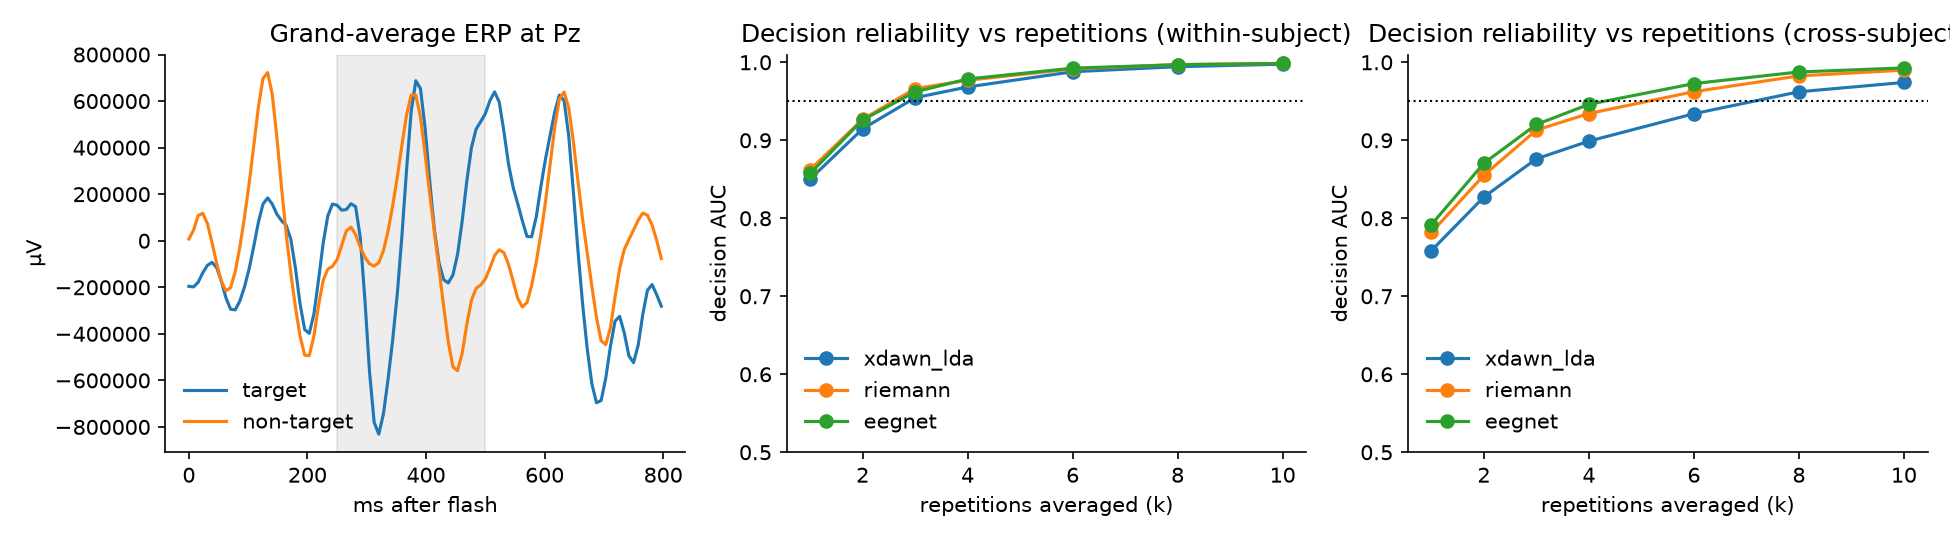
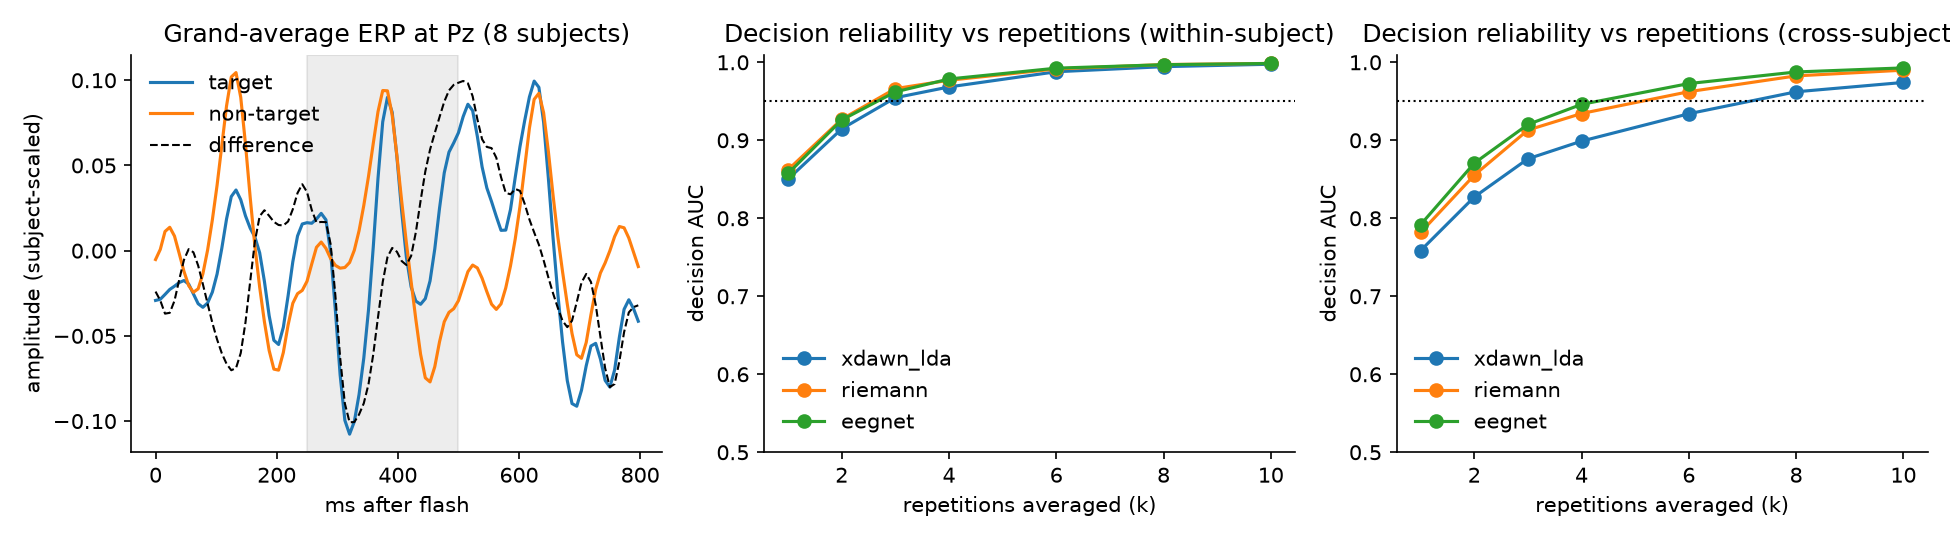
Overview figure: per-subject scaled ERP, difference wave; figure-only rebuild flag

diff --git a/src/p300erp/run.py b/src/p300erp/run.py
@@ -1,6 +1,6 @@
 """Run all detectors in both regimes and write reports/.
 
-    python -m p300erp.run [--prepare] [--skip-eegnet]
+    python -m p300erp.run [--prepare] [--skip-eegnet] [--figure-only]
 """
 from __future__ import annotations
 
@@ -10,15 +10,12 @@ import logging
 import time
 from pathlib import Path
 
-import matplotlib
-import numpy as np
 import pandas as pd
+from sklearn.metrics import roc_auc_score
 
 from .data import DATA, load, prepare
 from .evaluate import aggregate_curve, cross_subject, within_subject
-
-matplotlib.use("Agg")
-import matplotlib.pyplot as plt
+from .figure import make_overview
 
 ROOT = Path(__file__).resolve().parents[2]
 REP = ROOT / "reports"
@@ -29,6 +26,7 @@ def main(argv=None):
     ap = argparse.ArgumentParser()
     ap.add_argument("--prepare", action="store_true", help="download via MOABB and write the .npz")
     ap.add_argument("--skip-eegnet", action="store_true")
+    ap.add_argument("--figure-only", action="store_true", help="rebuild overview.png from saved reports")
     a = ap.parse_args(argv)
     logging.basicConfig(level=logging.INFO, format="%(asctime)s %(message)s", datefmt="%H:%M:%S")
     if a.prepare or not DATA.exists():
@@ -37,19 +35,25 @@ def main(argv=None):
     log.info(ds.summary())
     REP.mkdir(exist_ok=True)
     kinds = ["xdawn_lda", "riemann"] + ([] if a.skip_eegnet else ["eegnet"])
+
+    if a.figure_only:
+        curves = pd.read_csv(REP / "aggregation_curves.csv")
+        make_overview(ds, curves, [k for k in kinds if k in set(curves.model)], REP / "overview.png")
+        return
+
     results, curves, t0 = {}, [], time.time()
     for kind in kinds:
         for regime, fn in (("within_subject", within_subject), ("cross_subject", cross_subject)):
             per_subj, oof = fn(ds, kind)
-            pooled = {"auc": float(__import__("sklearn.metrics", fromlist=["roc_auc_score"]).roc_auc_score(ds.y, oof))}
             results[f"{kind}/{regime}"] = {"per_subject_mean_auc": float(per_subj.auc.mean()),
                                            "per_subject_sd_auc": float(per_subj.auc.std()),
                                            "per_subject_mean_ap": float(per_subj.ap.mean()),
-                                           "pooled_auc": pooled["auc"],
+                                           "pooled_auc": float(roc_auc_score(ds.y, oof)),
                                            "per_subject": per_subj.to_dict("records")}
-            log.info("== %s %s: mean per-subject AUC %.3f ± %.3f", kind, regime,
+            log.info("== %s %s: mean per-subject AUC %.3f +/- %.3f", kind, regime,
                      per_subj.auc.mean(), per_subj.auc.std())
-            c = aggregate_curve(ds, oof); c["model"], c["regime"] = kind, regime
+            c = aggregate_curve(ds, oof)
+            c["model"], c["regime"] = kind, regime
             curves.append(c)
     curves = pd.concat(curves, ignore_index=True)
     curves.to_csv(REP / "aggregation_curves.csv", index=False)
@@ -57,24 +61,7 @@ def main(argv=None):
                               .round(3).reset_index().to_dict("records"))
     results["seconds"] = round(time.time() - t0, 1)
     (REP / "metrics.json").write_text(json.dumps(results, indent=2))
-
-    # figure: grand-average ERP + aggregation curves
-    fig, ax = plt.subplots(1, 3, figsize=(13, 3.6))
-    t = np.arange(ds.X.shape[2]) / ds.sfreq * 1000
-    iz = ds.ch_names.index("Pz") if "Pz" in ds.ch_names else 2
-    for lab, name in ((1, "target"), (0, "non-target")):
-        ax[0].plot(t, ds.X[ds.y == lab, iz].mean(0) * 1e6, label=name)
-    ax[0].axvspan(250, 500, color="k", alpha=.07); ax[0].set(xlabel="ms after flash", ylabel="µV", title="Grand-average ERP at Pz"); ax[0].legend(frameon=False)
-    for i, regime in enumerate(("within_subject", "cross_subject")):
-        for kind in kinds:
-            g = curves[(curves.model == kind) & (curves.regime == regime)].groupby("k").auc.mean()
-            ax[i + 1].plot(g.index, g.values, "o-", label=kind)
-        ax[i + 1].axhline(0.95, color="k", ls=":", lw=1)
-        ax[i + 1].set(xlabel="repetitions averaged (k)", ylabel="decision AUC", ylim=(0.5, 1.01),
-                      title=f"Decision reliability vs repetitions ({regime.replace('_', '-')})")
-        ax[i + 1].legend(frameon=False)
-    for x in ax: x.spines[["top", "right"]].set_visible(False)
-    fig.tight_layout(); fig.savefig(REP / "overview.png", dpi=150)
+    make_overview(ds, curves, kinds, REP / "overview.png")
     print(json.dumps({k: {kk: vv for kk, vv in v.items() if kk != "per_subject"} if isinstance(v, dict) else v
                       for k, v in results.items() if k != "aggregation"}, indent=2))
 

diff --git a/src/p300erp/figure.py b/src/p300erp/figure.py
@@ -1,0 +1,45 @@
+"""Overview figure: grand-average ERP (per-subject robust scaling) + aggregation curves."""
+from __future__ import annotations
+
+from pathlib import Path
+
+import matplotlib
+import numpy as np
+import pandas as pd
+
+matplotlib.use("Agg")
+import matplotlib.pyplot as plt
+
+
+def make_overview(ds, curves: pd.DataFrame, kinds: list[str], out: Path) -> None:
+    fig, ax = plt.subplots(1, 3, figsize=(13, 3.6))
+    t = np.arange(ds.X.shape[2]) / ds.sfreq * 1000
+    iz = ds.ch_names.index("Pz") if "Pz" in ds.ch_names else 2
+    # MOABB returns microvolts. Scale each subject by its own MAD so one large-amplitude
+    # recording does not dominate the grand average, then average the per-subject ERPs.
+    erps = {0: [], 1: []}
+    for s in np.unique(ds.subject):
+        m = ds.subject == s
+        scale = np.median(np.abs(ds.X[m, iz])) * 1.4826 + 1e-12
+        for lab in (0, 1):
+            erps[lab].append(ds.X[m & (ds.y == lab), iz].mean(0) / scale)
+    for lab, name in ((1, "target"), (0, "non-target")):
+        ax[0].plot(t, np.mean(erps[lab], 0), label=name)
+    ax[0].plot(t, np.mean(erps[1], 0) - np.mean(erps[0], 0), "k--", lw=1, label="difference")
+    ax[0].axvspan(250, 500, color="k", alpha=.07)
+    ax[0].set(xlabel="ms after flash", ylabel="amplitude (subject-scaled)",
+              title="Grand-average ERP at Pz (8 subjects)")
+    ax[0].legend(frameon=False)
+    for i, regime in enumerate(("within_subject", "cross_subject")):
+        for kind in kinds:
+            g = curves[(curves.model == kind) & (curves.regime == regime)].groupby("k").auc.mean()
+            ax[i + 1].plot(g.index, g.values, "o-", label=kind)
+        ax[i + 1].axhline(0.95, color="k", ls=":", lw=1)
+        ax[i + 1].set(xlabel="repetitions averaged (k)", ylabel="decision AUC", ylim=(0.5, 1.01),
+                      title=f"Decision reliability vs repetitions ({regime.replace('_', '-')})")
+        ax[i + 1].legend(frameon=False)
+    for x in ax:
+        x.spines[["top", "right"]].set_visible(False)
+    fig.tight_layout()
+    fig.savefig(out, dpi=150)
+    plt.close(fig)
